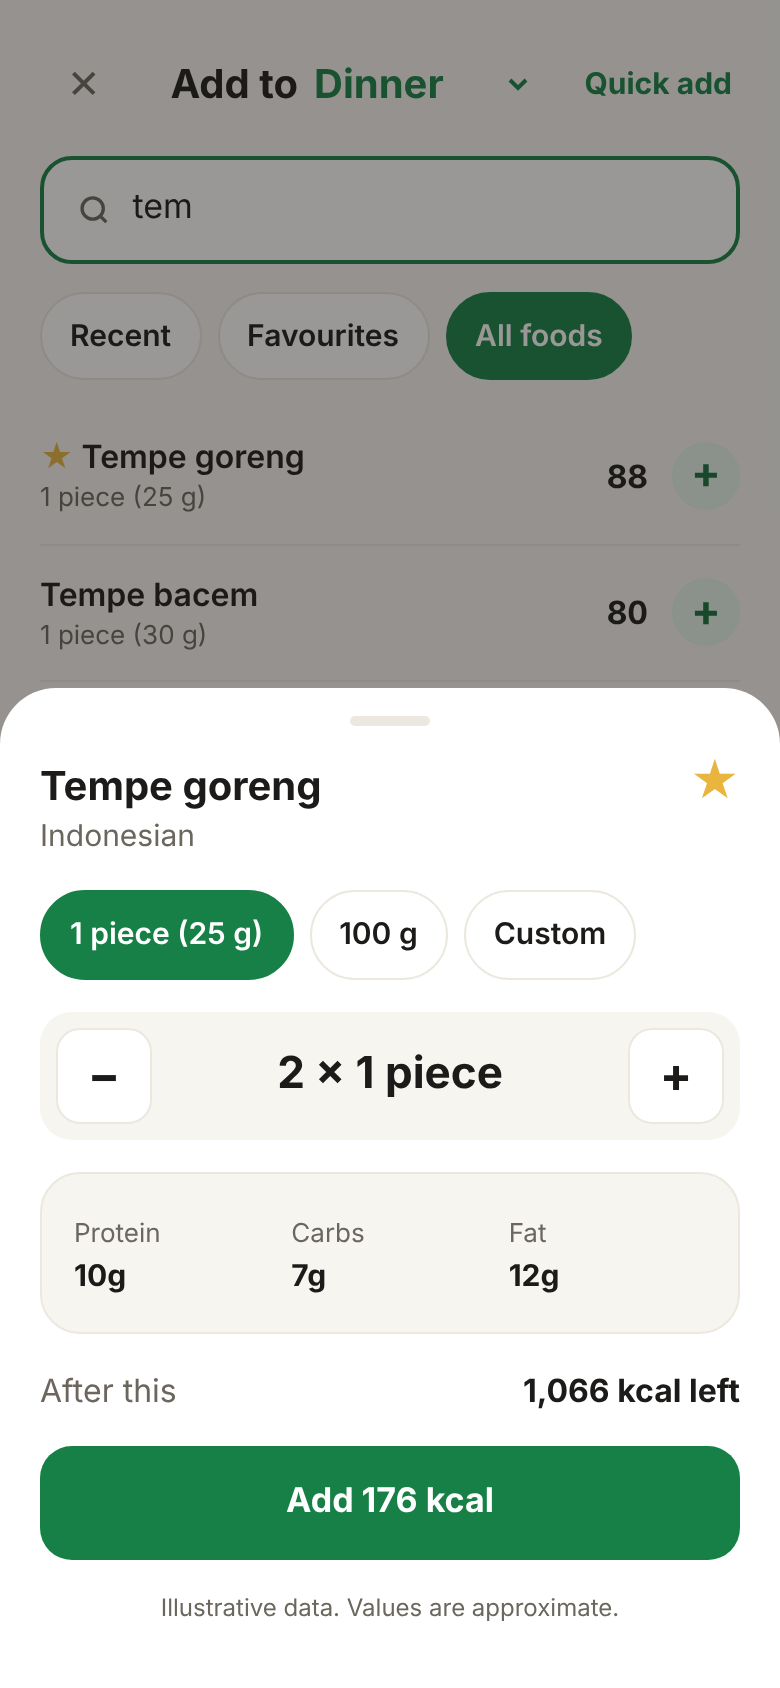
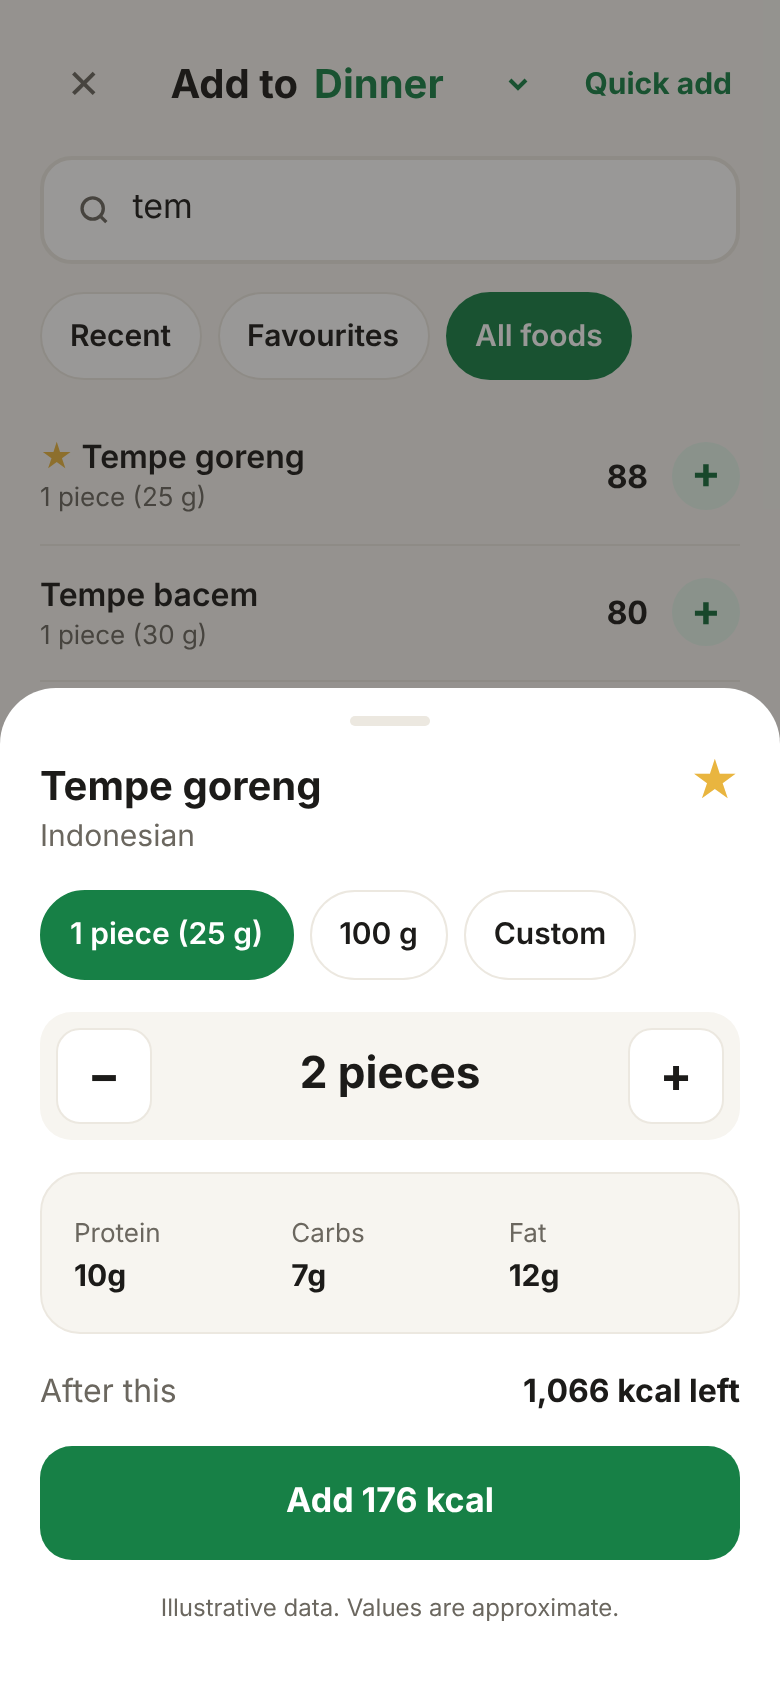
PM feedback: natural plural amounts, clean search focus border, goal line on target screen

Changed region(s): [[0.3385, 0.6161, 0.6462, 0.6469], [0.0308, 0.0924, 0.0923, 0.154], [0.9231, 0.0924, 0.9538, 0.154]]

diff --git a/src/lib/amount.ts b/src/lib/amount.ts
@@ -1,0 +1,49 @@
+// Natural-language amounts: formatAmount('1 piece', 2) -> '2 pieces', ('1/2 cup', 3) -> '1.5 cups'.
+
+const SINGULAR: Record<string, string> = { pieces: 'piece', skewers: 'skewer', eggs: 'egg', squares: 'square', cookies: 'cookie' }
+const INVARIANT = new Set(['g', 'kg', 'ml', 'tbsp', 'tsp', 'fish', 'oz'])
+const ADJECTIVES = new Set(['small', 'medium', 'large'])
+
+export function pluralise(word: string): string {
+  const w = word.toLowerCase()
+  if (INVARIANT.has(w)) return word
+  if (/(s|x|z|ch|sh)$/.test(w)) return word + 'es'
+  if (/[^aeiou]y$/.test(w)) return word.slice(0, -1) + 'ies'
+  return word + 's'
+}
+
+const fmtNum = (n: number) => String(Math.round(n * 100) / 100)
+
+/** Parse "10 skewers" -> { count: 10, words: ['skewer'] } with the noun singularised. */
+function parse(label: string) {
+  const clean = label.replace(/\s*\(.*\)\s*$/, '').trim()
+  const m = clean.match(/^(\d+(?:\.\d+)?|\d+\/\d+)\s+(.*)$/)
+  let count = 1
+  let rest = clean
+  if (m) {
+    const [a, b] = m[1].split('/').map(Number)
+    count = b ? a / b : a
+    rest = m[2]
+  }
+  const words = rest.split(' ')
+  const i = nounIndex(words)
+  if (i >= 0) {
+    const lower = words[i].toLowerCase()
+    if (SINGULAR[lower]) words[i] = SINGULAR[lower]
+  }
+  return { count, words, nounAt: i, lowerFirst: !m }
+}
+
+/** First word that is not a size adjective; -1 if the unit is only an adjective ("2 medium"). */
+function nounIndex(words: string[]) {
+  return words.findIndex((w) => !ADJECTIVES.has(w.toLowerCase()) && /^[a-z]/i.test(w))
+}
+
+export function formatAmount(servingLabel: string, qty: number): string {
+  const { count, words, nounAt, lowerFirst } = parse(servingLabel)
+  const total = count * qty
+  const out = [...words]
+  if (lowerFirst) out[0] = out[0].toLowerCase() // "Medium portion" -> "2 medium portions"
+  if (nounAt >= 0 && total > 1) out[nounAt] = pluralise(out[nounAt])
+  return `${fmtNum(total)} ${out.join(' ')}`
+}

diff --git a/src/pages/Log.tsx b/src/pages/Log.tsx
@@ -76,7 +76,7 @@ export default function Log() {
           </label>
           <button type="button" onClick={() => setQuick(true)} className="px-1 py-2 text-[15px] font-bold text-g-ink">Quick add</button>
         </header>
-        <div className="flex items-center gap-2.5 rounded-2xl border-2 border-g-ink bg-card px-4 py-3 focus-within:ring-2 focus-within:ring-g">
+        <div className="flex items-center gap-2.5 rounded-2xl border-2 border-line bg-card px-4 py-3 focus-within:border-g-ink">
           <svg width="20" height="20" viewBox="0 0 24 24" fill="none" stroke="currentColor" strokeWidth="2.2" className="text-mute" aria-hidden="true"><circle cx="11" cy="11" r="7" /><path d="m20 20-3.5-3.5" /></svg>
           <input
             autoFocus
@@ -85,7 +85,7 @@ export default function Log() {
             placeholder="Search foods, e.g. tempe"
             value={q}
             onChange={(e) => { setQ(e.target.value); if (e.target.value && tab !== 'all' && !q) setTab('all') }}
-            className="w-full bg-transparent text-[17px] outline-none placeholder:text-mute"
+            className="w-full appearance-none bg-transparent text-[17px] outline-none placeholder:text-mute focus:outline-none focus-visible:outline-none [&::-webkit-search-cancel-button]:hidden"
           />
         </div>
         <div className="flex flex-wrap gap-2" role="group" aria-label="Food list">

diff --git a/src/pages/Home.tsx b/src/pages/Home.tsx
@@ -8,6 +8,7 @@ import { Ring } from '../components/Ring'
 import { Card } from '../components/ui'
 import { dateKey, entryTotals, fmt, streak, sumEntries } from '../lib/calc'
 import { FOOD_BY_ID } from '../data/foods'
+import { formatAmount } from '../lib/amount'
 import { useStore } from '../lib/store'
 import { MEALS, MEAL_LABEL, type Entry } from '../lib/types'
 
@@ -65,7 +66,7 @@ export default function Home() {
                     {list.map((e) => (
                       <li key={e.id}>
                         <button type="button" onClick={() => setEditing(e)} className="flex w-full justify-between gap-3 border-t border-line py-2.5 text-left text-[15px]" aria-label={`Edit ${e.name}, ${fmt(entryTotals(e).kcal)} kcal`}>
-                          <span>{e.name}<span className="text-mute">, {e.qty === 1 ? '' : `${e.qty} × `}{e.servingLabel.replace(/ \(.*\)$/, '')}</span></span>
+                          <span>{e.name}{e.foodId && <span className="text-mute">, {formatAmount(e.servingLabel, e.qty)}</span>}</span>
                           <span className="tabular-nums">{fmt(entryTotals(e).kcal)}</span>
                         </button>
                       </li>

diff --git a/src/components/ProfileFields.tsx b/src/components/ProfileFields.tsx
@@ -1,4 +1,4 @@
-import { ACTIVITY } from '../lib/calc'
+import { ACTIVITY, computeTarget, tdee, weeklyKg } from '../lib/calc'
 import type { Activity, Goal, Profile, Sex } from '../lib/types'
 import { Chip } from './ui'
 
@@ -78,6 +78,11 @@ export function validBody(d: Draft) {
   return d.age >= 14 && d.age <= 100 && d.heightCm >= 120 && d.heightCm <= 230 && d.weightKg >= 30 && d.weightKg <= 300
 }
 
-export function goalBlurb(g: Goal) {
-  return g === 'lose' ? 'to lose about 0.5 kg a week' : g === 'gain' ? 'to gain about 0.3 kg a week' : 'to keep your current weight'
+/** Goal line based on the deficit or surplus actually used by the suggested target. */
+export function goalBlurb(d: Draft) {
+  if (d.goal === 'keep') return 'to keep your current weight'
+  const delta = computeTarget(d) - tdee(d)
+  const kg = weeklyKg(delta)
+  const verb = d.goal === 'lose' ? 'lose' : 'gain'
+  return kg >= 0.25 ? `to ${verb} about ${kg} kg a week` : `to ${verb} weight gradually`
 }

diff --git a/src/components/FoodSheet.tsx b/src/components/FoodSheet.tsx
@@ -1,6 +1,7 @@
 import { useMemo, useState } from 'react'
 import { FOOD_BY_ID, servingsFor, type Food } from '../data/foods'
 import { fmt, round1 } from '../lib/calc'
+import { formatAmount } from '../lib/amount'
 import { entryFromFood, useStore } from '../lib/store'
 import { MEALS, MEAL_LABEL, type Entry, type Meal } from '../lib/types'
 import { Sheet, Stepper } from './Sheet'
@@ -28,8 +29,7 @@ export function FoodSheet(props: Props) {
     [food, mult, qty],
   )
   const fav = state.favourites.includes(food.id)
-  const short = isCustom ? `${Math.max(1, grams)} g` : servings[idx].label.replace(/ \(.*\)$/, '')
-  const qtyLabel = qty === 1 ? short : `${qty} × ${short}`
+  const qtyLabel = formatAmount(servingLabel, qty)
 
   const save = () => {
     const base = entryFromFood(food.id, { meal, date: props.mode === 'add' ? props.date : props.entry.date, mult, qty, servingLabel })

diff --git a/src/lib/calc.ts b/src/lib/calc.ts
@@ -15,9 +15,17 @@ export function bmr(sex: Sex, weightKg: number, heightCm: number, age: number): 
   return 10 * weightKg + 6.25 * heightCm - 5 * age + (sex === 'male' ? 5 : -161)
 }
 
+export function tdee(p: Omit<Profile, 'target'>): number {
+  return bmr(p.sex, p.weightKg, p.heightCm, p.age) * ACTIVITY[p.activity].factor
+}
+
+/** ~7,700 kcal per kg of body weight; rounded to the nearest 0.25 kg a week. */
+export function weeklyKg(dailyDelta: number): number {
+  return Math.round(((Math.abs(dailyDelta) * 7) / 7700) * 4) / 4
+}
+
 export function computeTarget(p: Omit<Profile, 'target'>): number {
-  const tdee = bmr(p.sex, p.weightKg, p.heightCm, p.age) * ACTIVITY[p.activity].factor
-  const raw = tdee + GOAL_ADJUST[p.goal]
+  const raw = tdee(p) + GOAL_ADJUST[p.goal]
   const floor = p.sex === 'male' ? 1500 : 1200
   return Math.round(Math.max(floor, raw) / 10) * 10
 }

diff --git a/src/pages/Onboarding.tsx b/src/pages/Onboarding.tsx
@@ -67,7 +67,7 @@ export default function Onboarding() {
             ) : (
               <div className="text-[56px] font-extrabold tracking-tight text-g-ink" data-testid="target">{fmt(target)}</div>
             )}
-            <div className="text-[15px] text-mute">{custom !== null && custom !== computed ? `Custom target (suggested ${fmt(computed)})` : goalBlurb(d.goal)}</div>
+            <div className="text-[15px] text-mute" data-testid="goal-line">{goalBlurb(d)}</div>
           </Card>
           <Card className="py-0">
             {[['Goal', GOAL_LABEL[d.goal]], ['Current weight', `${d.weightKg} kg`], ['Height', `${d.heightCm} cm`], ['Activity', ACTIVITY_SHORT[d.activity]]].map(([k, v]) => (

diff --git a/src/index.css b/src/index.css
@@ -24,7 +24,9 @@ html, body, #root { height: 100%; }
 body { @apply bg-bg text-ink font-sans antialiased; }
 @media (min-width: 768px) { body { @apply bg-desk; } }
 
-:focus-visible { outline: 3px solid var(--color-g-ink); outline-offset: 2px; }
+@layer base {
+  :focus-visible { outline: 3px solid var(--color-g-ink); outline-offset: 2px; }
+}
 
 @keyframes sheet-up { from { transform: translateY(100%); } to { transform: none; } }
 @keyframes fade-in { from { opacity: 0; } to { opacity: 1; } }
